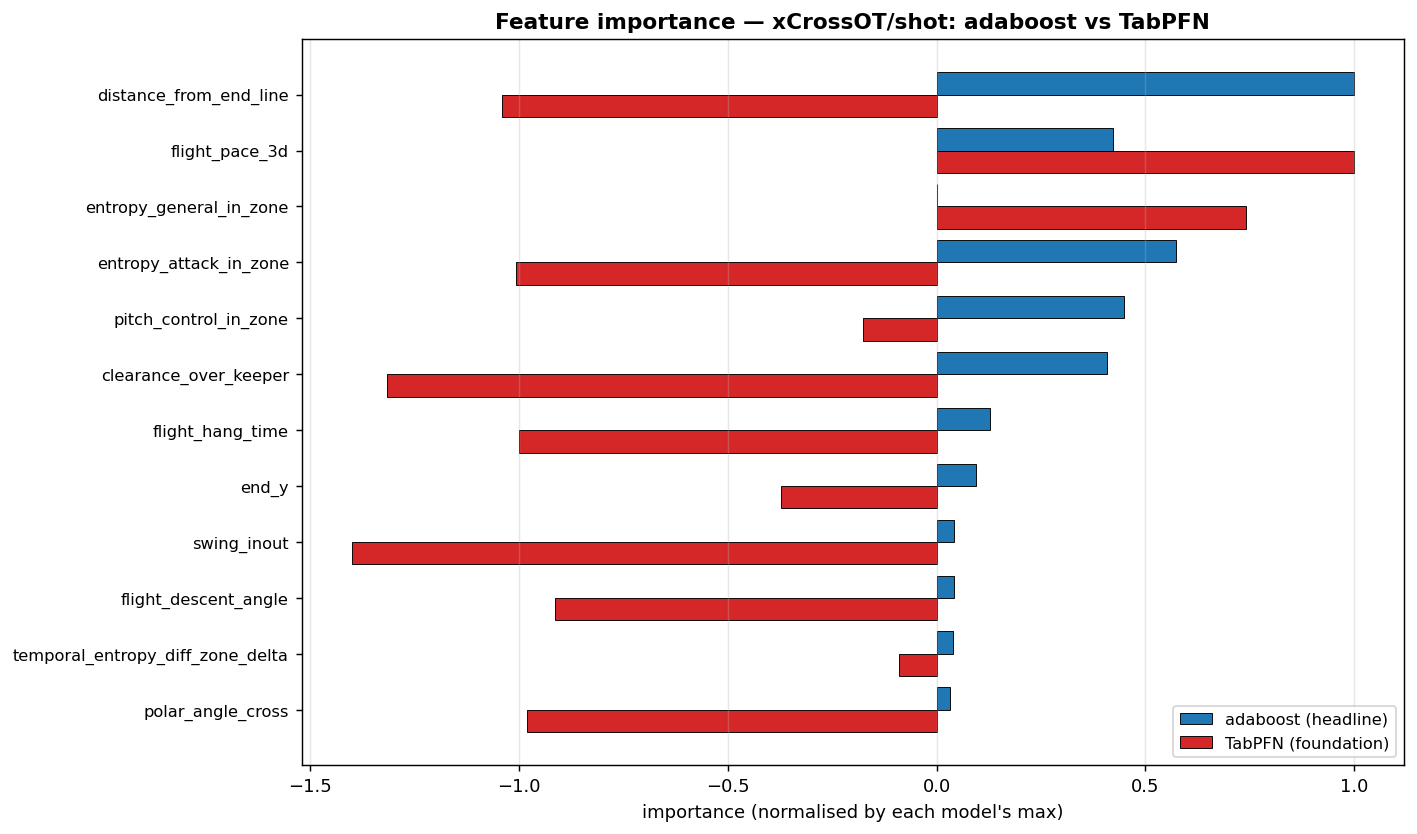
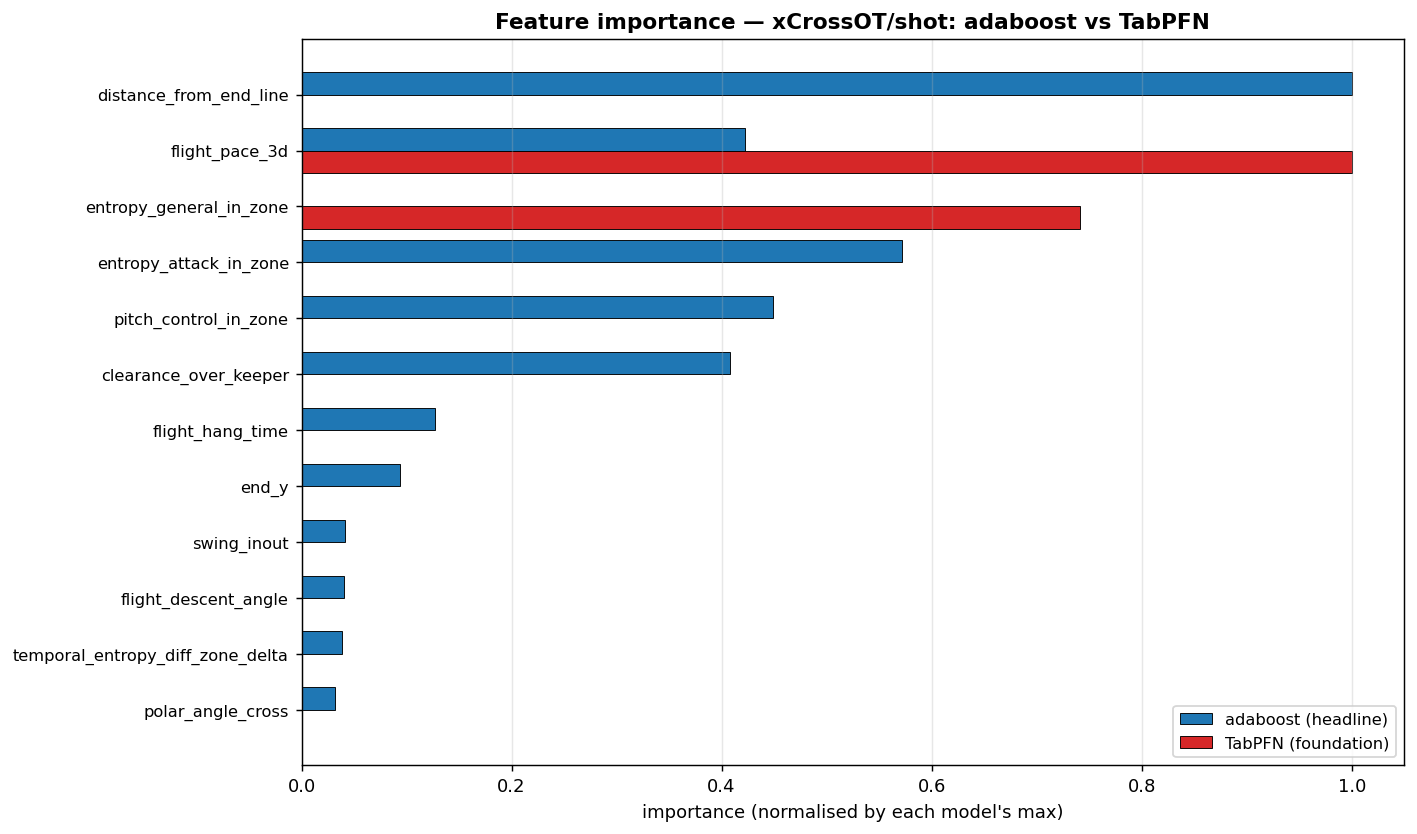
fix(figures): clip negative importances in compare chart (cleaner shot view)

diff --git a/xcross/model/comparison_figures.py b/xcross/model/comparison_figures.py
@@ -129,8 +129,13 @@ def chart_importance_compare(label: str, top: int = 12) -> None:
     if not headline_csv.exists() or not tabpfn_csv.exists():
         logger.warning(f"importance_compare skipped for {label}: missing inputs")
         return
-    head = pl.read_csv(headline_csv).with_columns((pl.col("importance") / pl.col("importance").max()).alias("imp_norm"))
-    tab = pl.read_csv(tabpfn_csv).with_columns((pl.col("importance") / pl.col("importance").max()).alias("imp_norm"))
+    def _normalise(df: pl.DataFrame) -> pl.DataFrame:
+        df = df.with_columns(pl.col("importance").clip(lower_bound=0.0).alias("pos"))
+        max_pos = df["pos"].max() or 1.0
+        return df.with_columns((pl.col("pos") / max_pos).alias("imp_norm"))
+
+    head = _normalise(pl.read_csv(headline_csv))
+    tab = _normalise(pl.read_csv(tabpfn_csv))
     union = set(head.head(top)["feature"].to_list()) | set(tab.head(top)["feature"].to_list())
     head_map = dict(zip(head["feature"].to_list(), head["imp_norm"].to_list(), strict=True))
     tab_map = dict(zip(tab["feature"].to_list(), tab["imp_norm"].to_list(), strict=True))

diff --git a/docs/annotation.md b/docs/annotation.md
@@ -166,9 +166,14 @@ o TabPFN. *A correção dessa propagação é pendência se quisermos o TabPFN c
   **conjunto de top features é robusto** — reforça que a representação certa é o sinal,
   não o classificador.
 
-### Pendência menor: figura comparativa
-- Opcional: gerar `chart_importance_compare_xcrossot_success.png` mostrando TabPFN vs
-  catboost lado a lado, para ilustrar o achado de convergência+divergência acima.
+### Figura comparativa (DONE — 2026-05-26)
+- `chart_importance_compare_xcrossot_{success,shot}.png`. Normaliza pelo max do
+  *positivo* (clipa importâncias negativas a 0, que indicam ruído/feature inútil).
+- **Achado adicional revelado pela figura**: o TabPFN é mais **parcimonioso** — para
+  o xCrossOT/shot concentra a importância em ~2 features (`flight_pace_3d`,
+  `entropy_general_in_zone`), enquanto o adaboost dispersa em ~10. Foundation model
+  encontra um sinal mais condensado; o GBDT precisa de mais features porque cada árvore
+  é fraca.
 
 ### Para o paper
 - Rascunhar `docs/paper-outline.md` com a estrutura completa (já discutida).